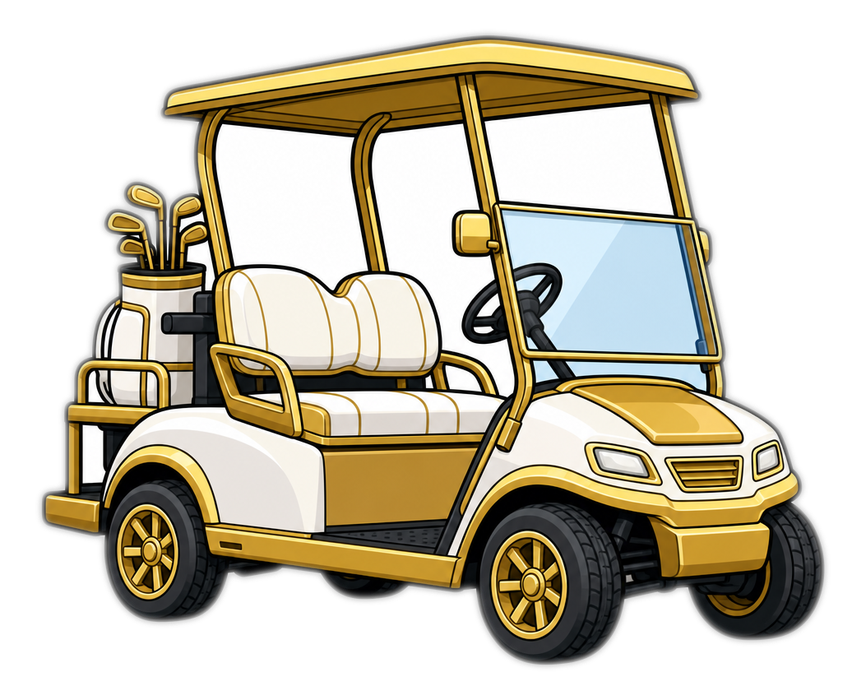
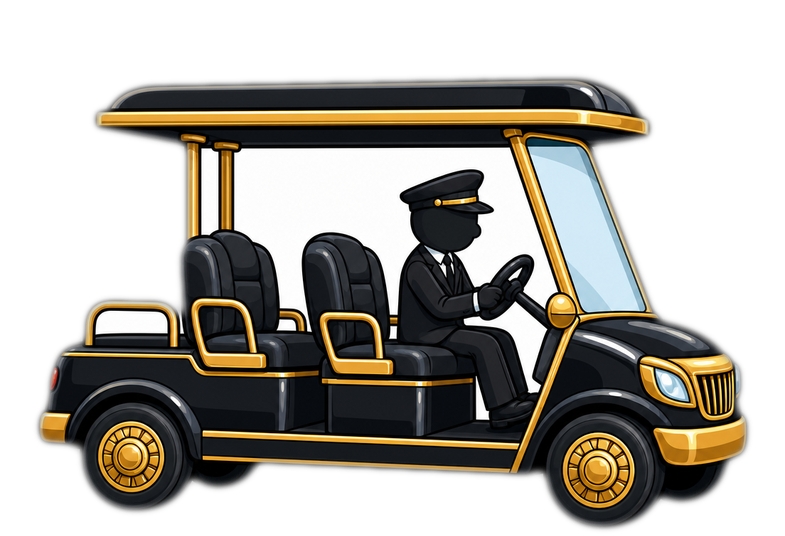
Remplace Resort Doré par Pelouse Oval (Maison Blanche).
Nouveaux fonds/props générés, sol pelouse, terrain renommé.

diff --git a/src/terrains.js b/src/terrains.js
@@ -33,7 +33,7 @@ function drawBgPlage() {
   drawBgPlageCanvas(raining, storm);
 }
 
-/** Resort Doré PNG (Trompette) — un fond + FX sable en code. */
+/** Pelouse Oval PNG (Trompette) — pelouse + FX poussière en code. */
 function drawBgPlagePng(t, raining, storm) {
   const p = SPRITES.mapTrompette;
 
@@ -54,49 +54,39 @@ function drawBgPlagePng(t, raining, storm) {
 
   // Public désactivé pour l’instant (pas de crowd_0 / pas de drawCrowd)
 
-  // Sol sable jouable
+  // Sol pelouse / gravier clair jouable
   const sand = ctx.createLinearGradient(0, GROUND_Y - 38, 0, H);
   if (raining) {
-    sand.addColorStop(0, "#c9a25a");
-    sand.addColorStop(1, "#a07f3f");
+    sand.addColorStop(0, "#6a8f4e");
+    sand.addColorStop(1, "#4a6a38");
   } else {
-    sand.addColorStop(0, "#f4d58d");
-    sand.addColorStop(1, "#d9b25f");
+    sand.addColorStop(0, "#8fbc6a");
+    sand.addColorStop(1, "#6a9a48");
   }
   ctx.fillStyle = sand;
   ctx.fillRect(0, GROUND_Y - 37, W, H - GROUND_Y + 37);
   ctx.fillStyle = "rgba(0,0,0,0.06)";
   ctx.fillRect(0, GROUND_Y, W, 2);
 
-  // barrière dorée au bord du terrain
-  ctx.fillStyle = "#c9a227";
+  // barrière blanche / or au bord du terrain
+  ctx.fillStyle = "#e8e4d8";
   ctx.fillRect(0, GROUND_Y - 41, W, 4);
-  ctx.fillStyle = "rgba(255,255,255,0.35)";
+  ctx.fillStyle = "#c9a227";
   ctx.fillRect(0, GROUND_Y - 41, W, 1);
   ctx.fillStyle = "rgba(0,0,0,0.18)";
   ctx.fillRect(0, GROUND_Y - 37, W, 1);
 
-  // Vaguelettes
-  ctx.strokeStyle = "rgba(255,255,255,0.45)";
-  ctx.lineWidth = 2;
-  ctx.beginPath();
-  for (let x = 0; x <= W; x += 8) {
-    const y = GROUND_Y - 34 + Math.sin(x / 26 + t * 2) * 2;
-    if (x === 0) ctx.moveTo(x, y); else ctx.lineTo(x, y);
-  }
-  ctx.stroke();
-
-  // Pas de palmier « prop » : le fond du resort a déjà ses palmiers géants —
+  // Pas de palmier « prop » : le fond a déjà ses éléments géants —
   // le doublon miniature au premier plan cassait la perspective.
   if (!spriteReady(p.far) && !spriteReady(p.skyline)) drawPalm(52, storm);
 
-  // Drapeau de green (droite) — à l'échelle d'un vrai drapeau de golf
+  // Drapeau cérémoniel (droite)
   if (spriteReady(p.flag)) {
     const bob = Math.sin(t * 2.2) * 2;
     drawMapProp(p.flag, 845, GROUND_Y + 2 + bob, 88);
   }
 
-  // Voiturette (event ou idle décoratif)
+  // Voiturette / mini-cortège (event ou idle décoratif)
   drawResortCart(t);
 
   if (raining) drawSandstorm(storm ? 1 : 0.55);

diff --git a/src/assets.js b/src/assets.js
@@ -4,7 +4,7 @@
 const SPRITES = {
   ballPurple: null,      // ballon volley violet / crème
   mapVladou: null,       // Place Grand-Rouge (pack PNG)
-  mapTrompette: null,    // Resort Doré (pack PNG)
+  mapTrompette: null,    // Pelouse Oval (pack PNG)
   mapMicron: null,       // Palais de l'Hexagone (pack PNG)
   mapHoun: null          // Esplanade du Défilé (pack PNG)
 };
@@ -52,7 +52,7 @@ function mapVladouReady() {
   return !!(p && spriteReady(p.skyline));
 }
 
-/** Pack fond / props Resort Doré (terrain Trompette). */
+/** Pack fond / props Pelouse Oval (terrain Trompette). */
 function initMapTrompette() {
   SPRITES.mapTrompette = loadMapPack("trompette", {
     skyline: "skyline.png", far: "far.png", crowd0: "crowd_0.png",

diff --git a/src/state.js b/src/state.js
@@ -6,7 +6,7 @@
 // tribunes est composé de ce perso, et le nom du terrain lui rend hommage.
 const TERRAINS = [
   { key: "neige",   name: "Place Grand-Rouge",       character: 0 }, // Vladou
-  { key: "plage",   name: "Resort Doré",             character: 1 }, // Trompette
+  { key: "plage",   name: "Pelouse Oval",            character: 1 }, // Trompette
   { key: "prairie", name: "Palais de l'Hexagone",    character: 2 }, // Micron
   { key: "parade",  name: "Esplanade du Défilé",     character: 3 }, // Houn
 ];

diff --git a/src/menus.js b/src/menus.js
@@ -1152,7 +1152,7 @@ function drawRules() {
   y += 4;
   h("Météo & événements", "#4db3ff");
   p("Pluie / tempête : sol glissant, balle plus lourde.");
-  p("Place Grand-Rouge : canon. Resort Doré : voiturette. Palais / Esplanade : décors PNG.");
+  p("Place Grand-Rouge : canon. Pelouse Oval : voiturette. Palais / Esplanade : décors PNG.");
   p("Deux joueurs au filet + balle proche = Smash Battle.");
   ctx.restore();
 

diff --git a/docs/VISION.md b/docs/VISION.md
@@ -47,10 +47,9 @@ existant (vitesse/détente/puissance/contrôle sur 5).
 - **SUPER « Le Mur »** : élève un mur doré au milieu du camp adverse pendant
   ~5 s : l'adversaire doit le contourner/sauter par-dessus pour défendre.
   Tactique : coupe les déplacements, à combiner avec un smash croisé.
-- **Map « Resort Doré »** : tour dorée, palmiers, green de golf, drapeaux.
-  **Événement interactif** : une voiturette de golf traverse le fond et
-  klaxonne ; au passage, elle projette des balles de golf en pluie sur une
-  zone annoncée (marqueur au sol) — zone à éviter 1,5 s.
+- **Map « Pelouse Oval »** : façade néoclassique blanche, pelouse, drapeaux
+  stylisés. **Événement interactif** : un mini-cortège (voiturette) traverse
+  le fond et klaxonne ; au passage, pluie de balles sur une zone annoncée.
 
 ### 3. Manu Micron (France)
 - **Silhouette** : costume cintré impeccable, mèche laquée, gestuelle de

diff --git a/README.md b/README.md
@@ -1,7 +1,7 @@
 # Sommet Volley
 
 Volley 2D satirique : Tsar Vladou, Ronald Trompette et Manu Micron s’affrontent
-sur Place Grand-Rouge, Resort Doré ou Palais de l’Hexagone. Techniques signature,
+sur Place Grand-Rouge, Pelouse Oval ou Palais de l’Hexagone. Techniques signature,
 météo dynamique, public en délire… et un **mode multijoueur en ligne** (1v1 et
 2v2) en pair-à-pair.
 
